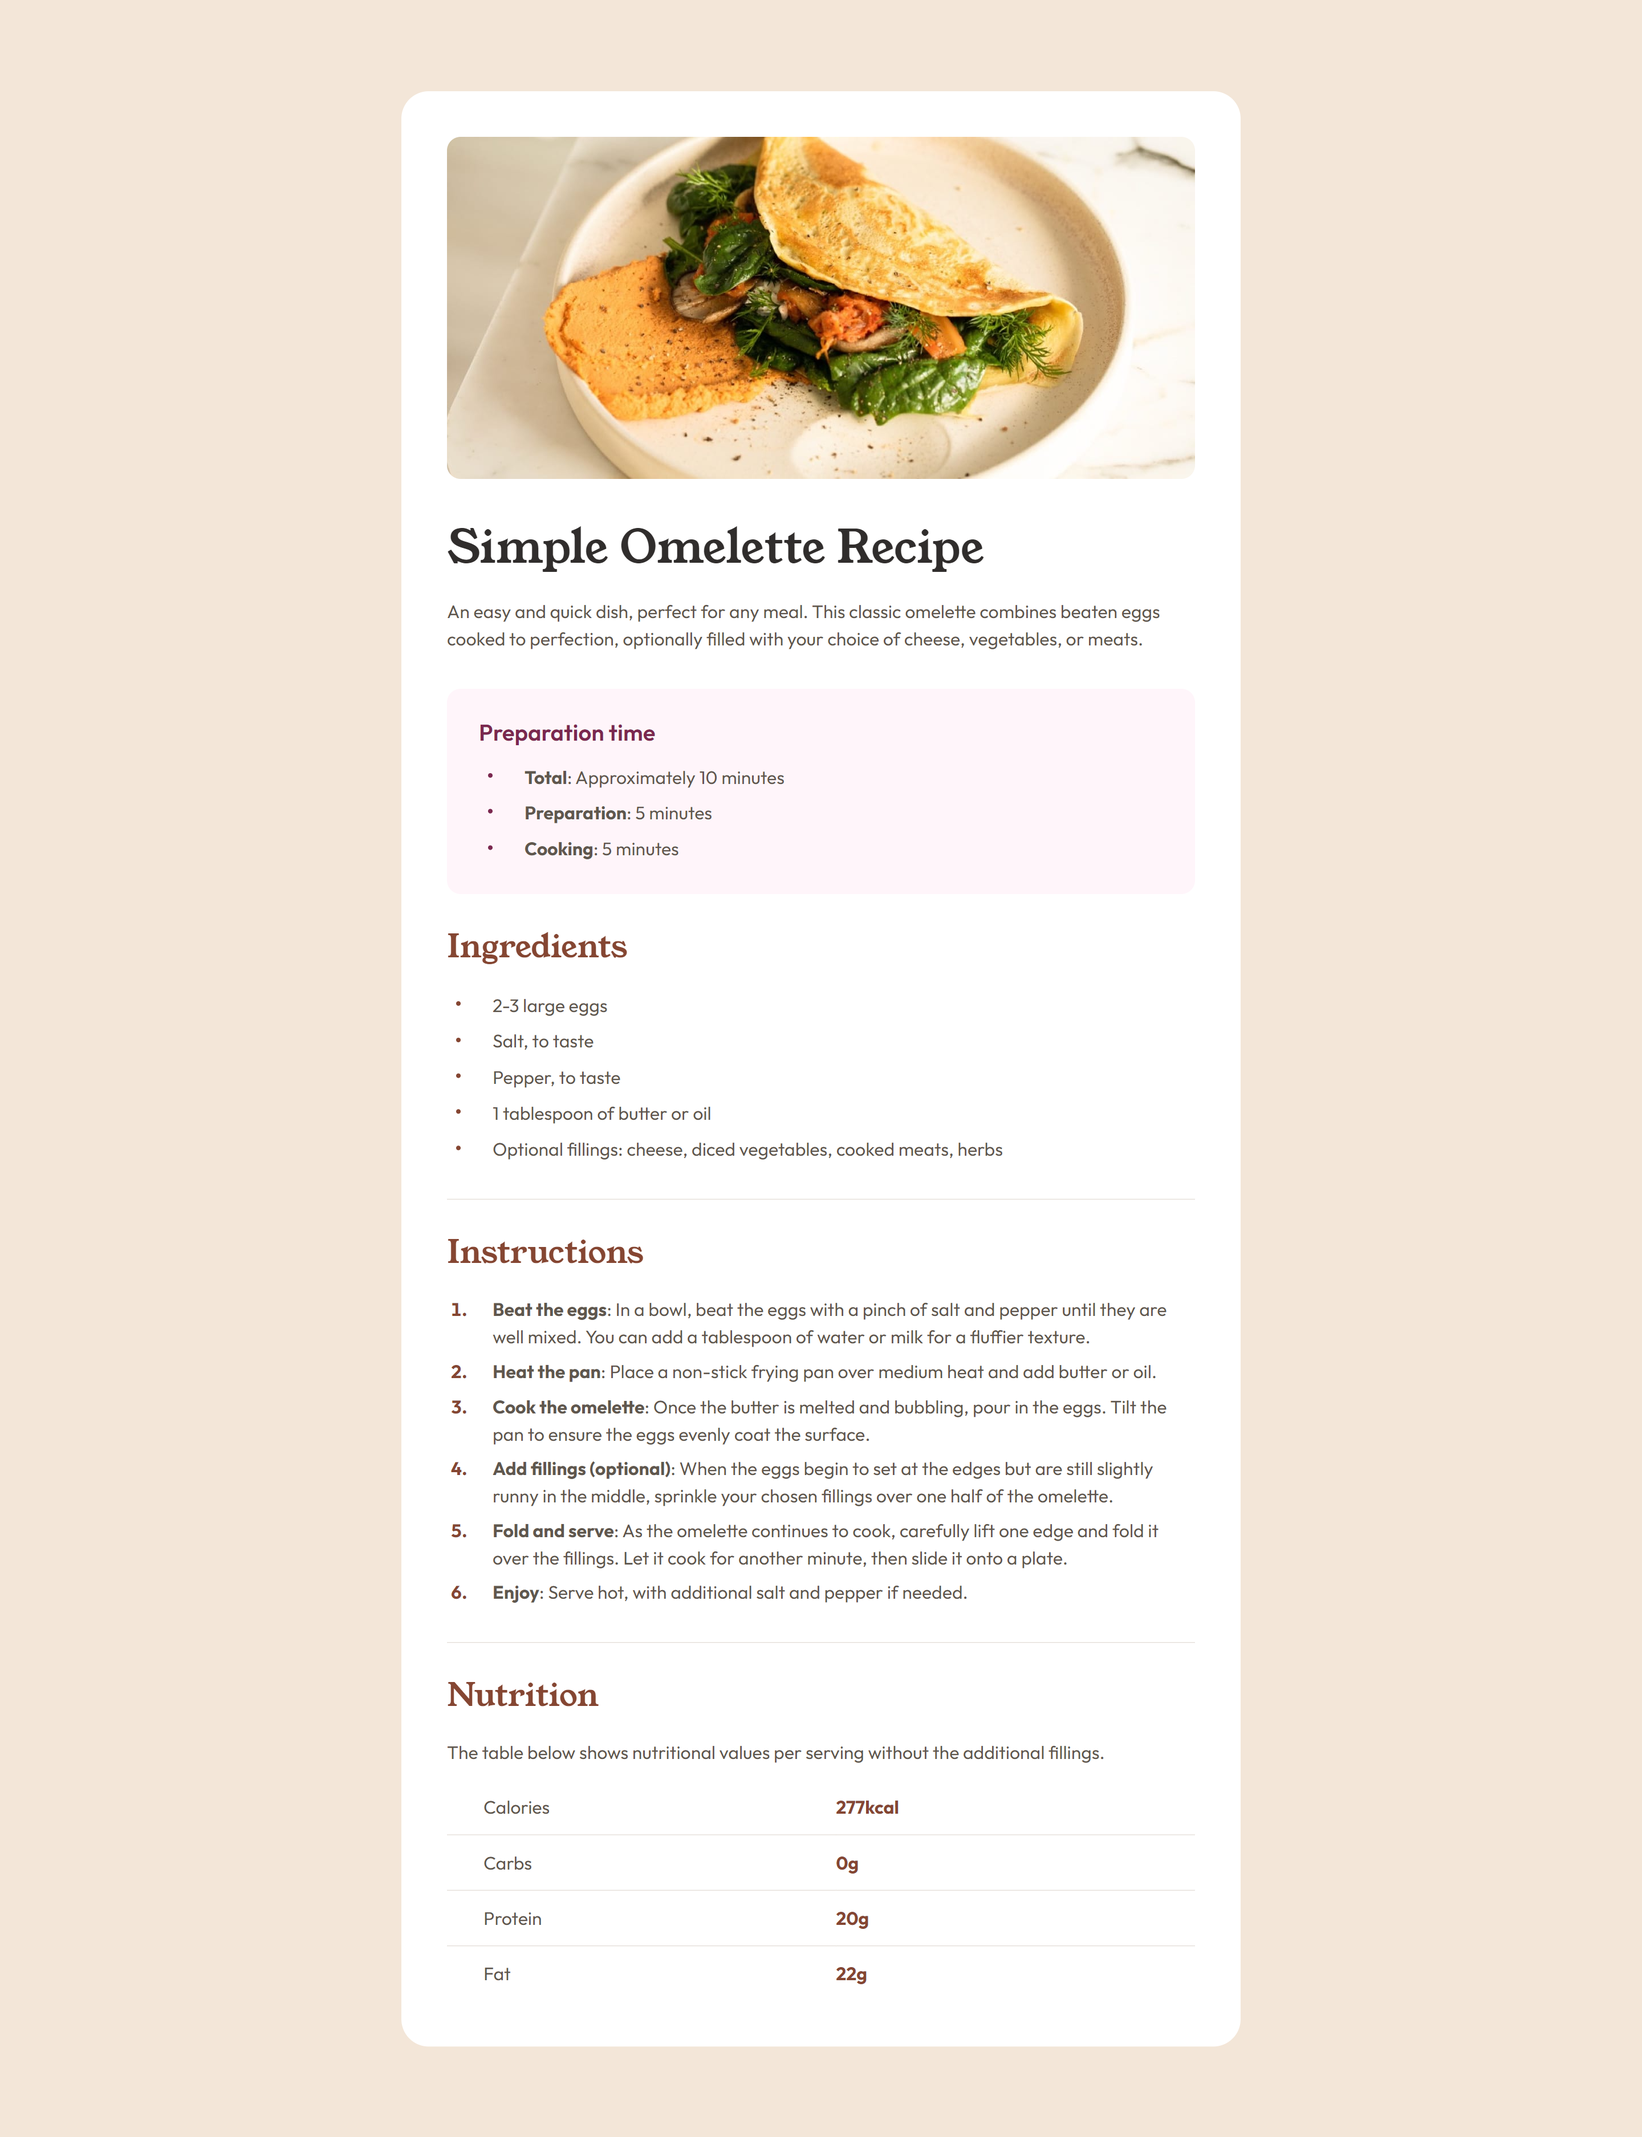
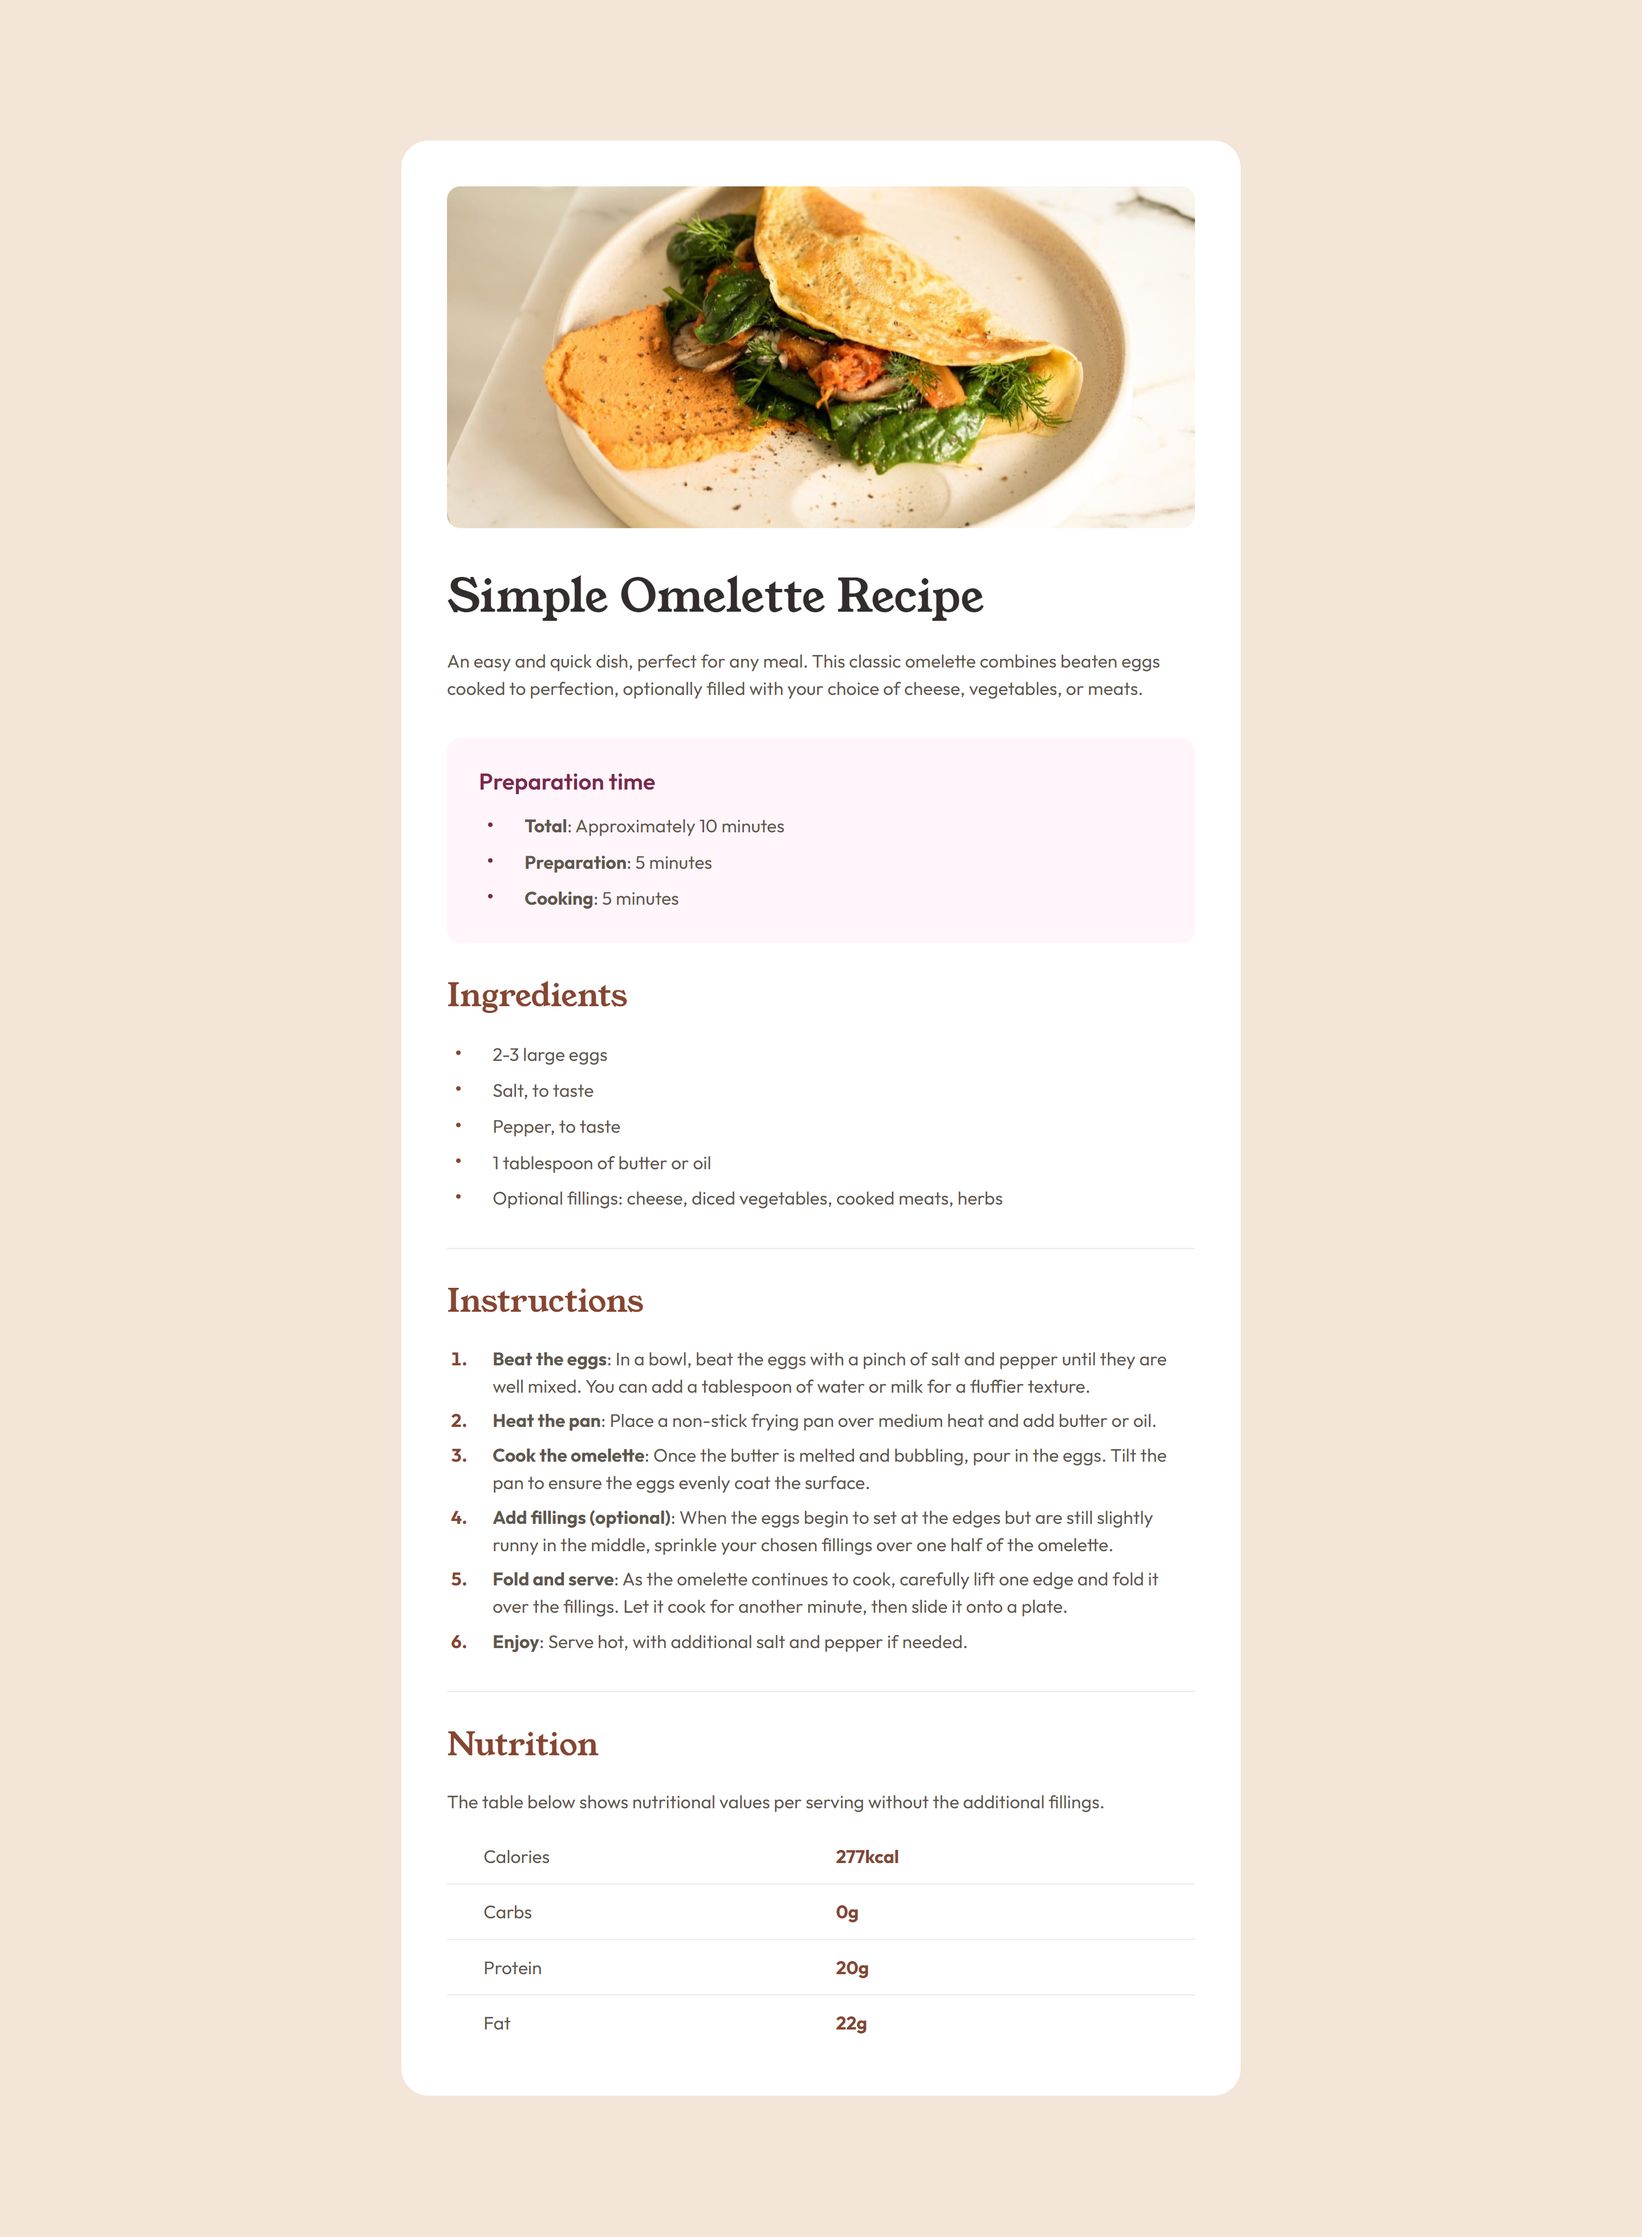
Update margin on desktop layout to match design

diff --git a/style.css b/style.css
@@ -33,7 +33,7 @@ body {
     @media (min-width: 533px) {
         & {
             border-radius: 1.5rem;
-            margin-block: 5rem;
+            margin-block: 7.69rem 7.75rem;
             max-width: min(46rem, 100% - 4rem);
         }
 
